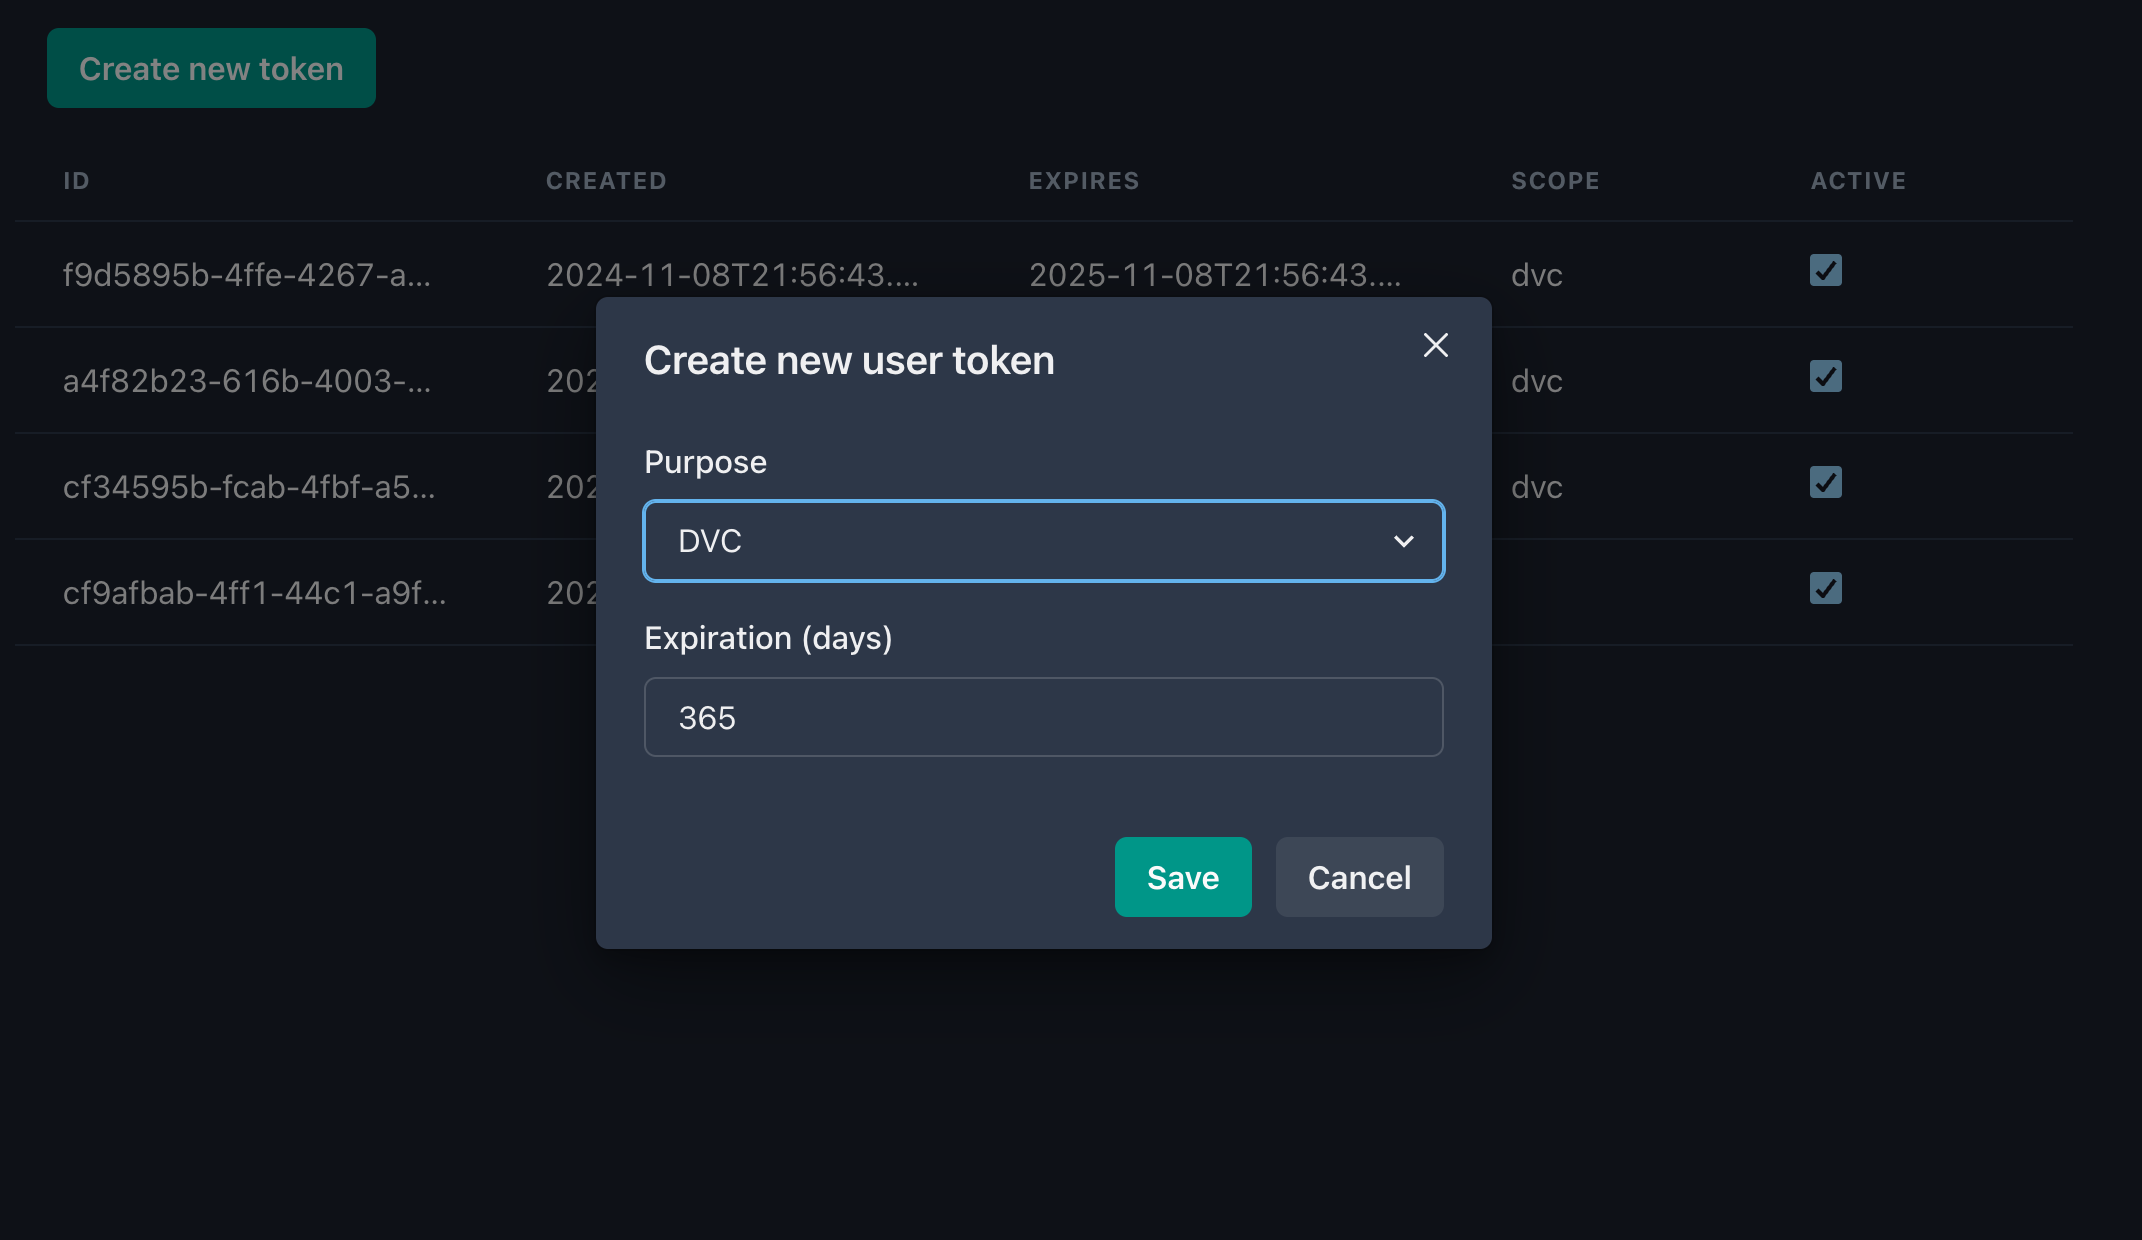
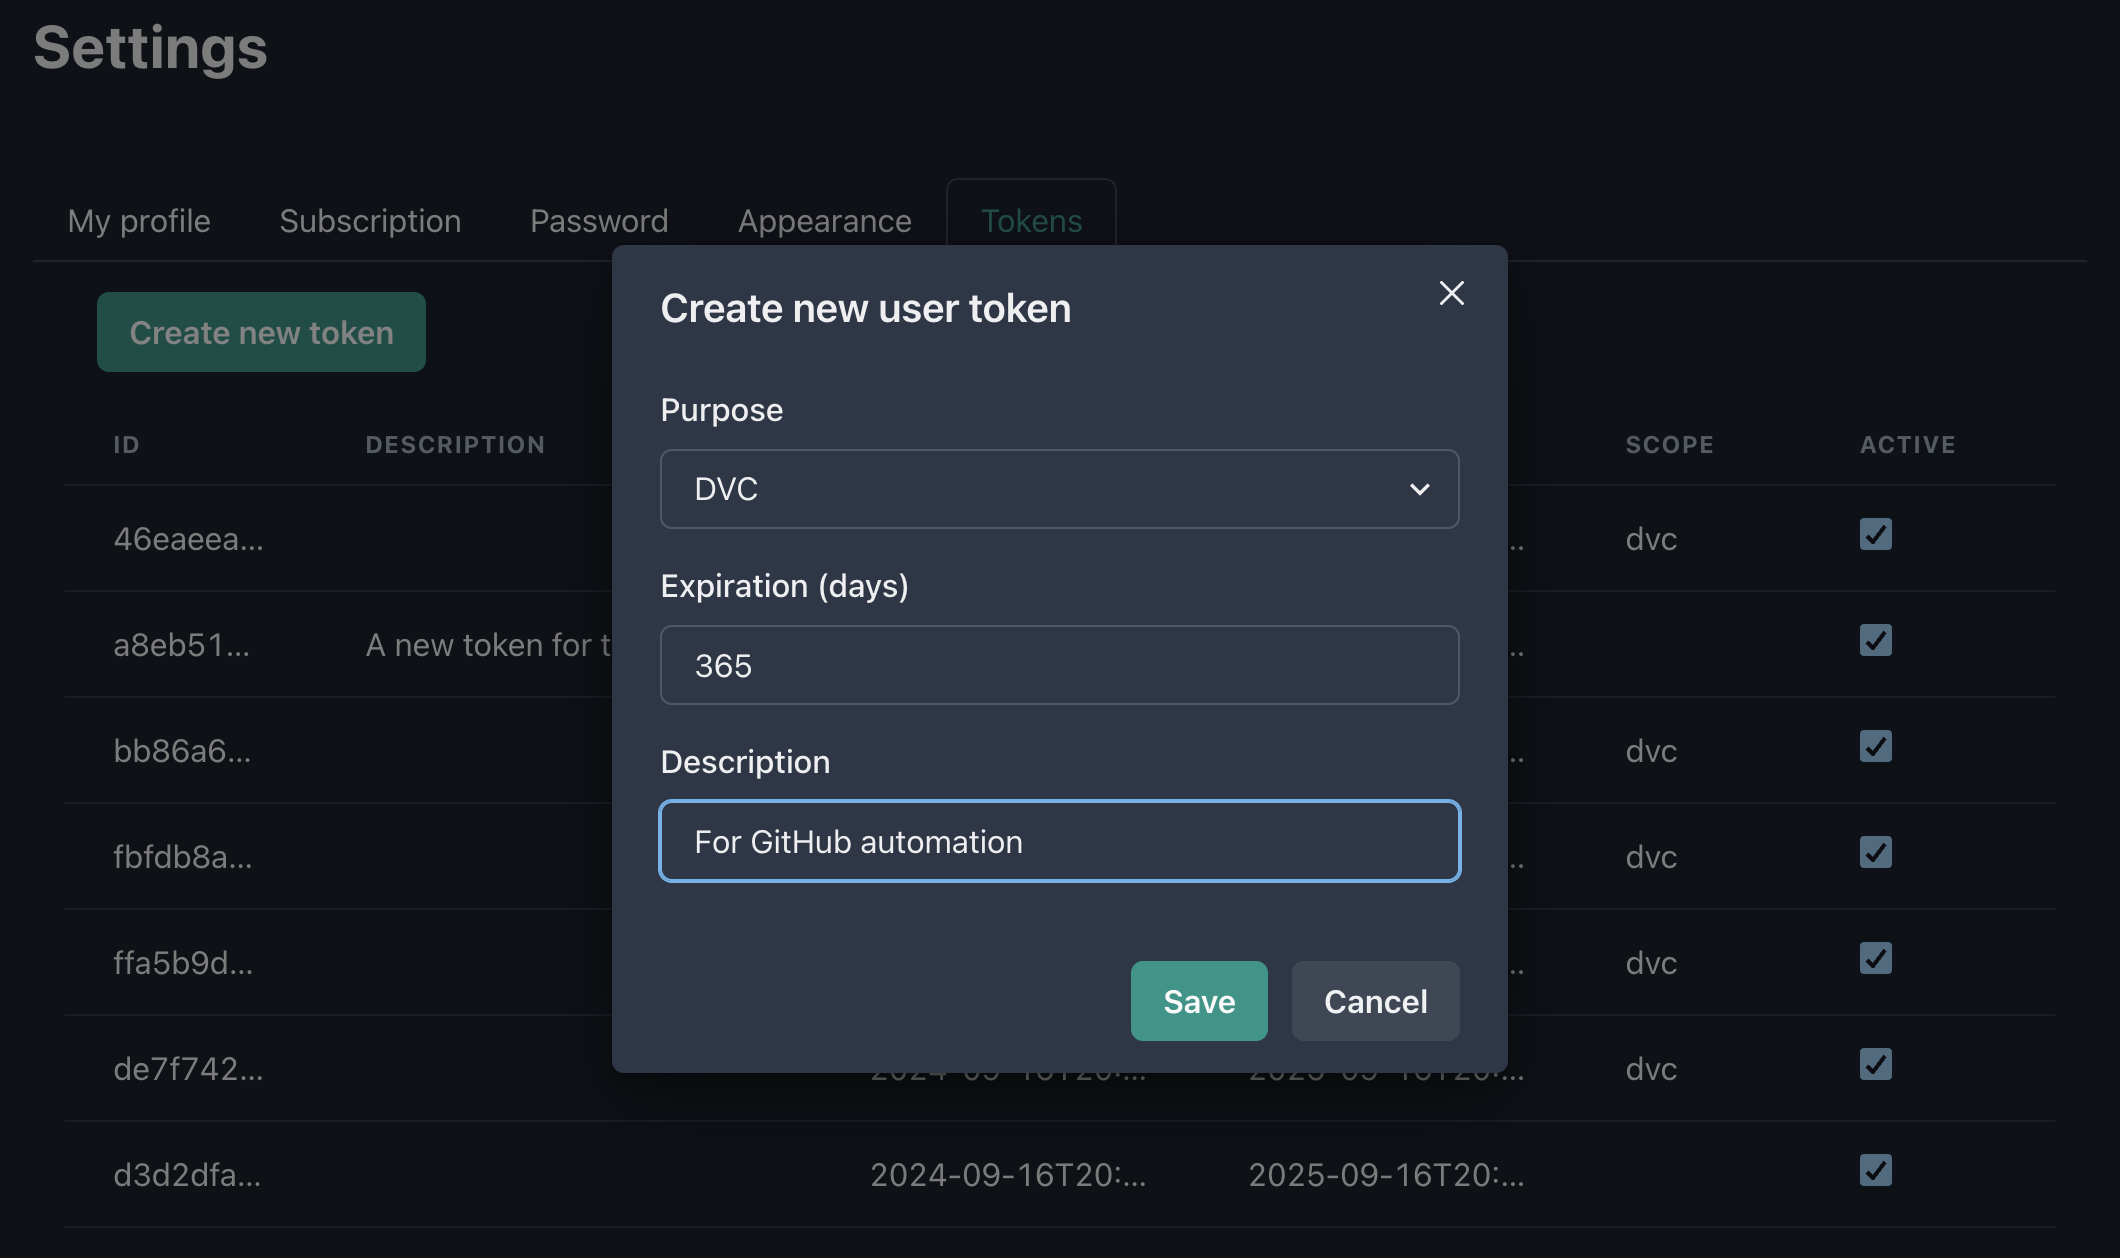
Add GitHub Actions tutorial

diff --git a/docs/tutorials/github-actions.md b/docs/tutorials/github-actions.md
@@ -1,0 +1,83 @@
+# Running Calkit in GitHub Actions
+
+A project can be set up to automatically run the pipeline every time a
+change is pushed, either to the main branch or on a pull request,
+using GitHub Actions.
+The latter allows for inspection of outputs before merging into main.
+
+To get started, generate a DVC token and set it in your GitHub Actions
+secrets as `CALKIT_DVC_TOKEN`,
+either at your account or project level.
+On calkit.io, there are shortcuts on the project page for managing both
+Calkit tokens and GitHub Actions secrets:
+
+![Project quick actions links](img/quick-actions.png)
+
+![DVC token](img/latex-codespaces/new-token.png)
+
+![Actions repo secrets](img/actions-repo-secrets.png)
+
+Next, add a workflow to the project in the `.github/workflows` folder.
+For example, we can put the content below into `.github/workflows/run.yml`:
+
+```yaml
+name: Run pipeline
+
+on:
+  push:
+    branches:
+      - main
+  pull_request:
+
+permissions:
+  contents: write
+
+# Make sure we only ever run one per branch so we don't have issues pushing
+# after running the pipeline
+concurrency:
+  group: calkit-run-${{ github.ref }}
+  cancel-in-progress: false
+
+jobs:
+  main:
+    name: Run
+    runs-on: ubuntu-latest
+    steps:
+      - uses: actions/checkout@v4
+        with:
+          # For PRs, checkout the head ref to avoid detached HEAD
+          ref: ${{ github.head_ref || github.ref_name }}
+          token: ${{ secrets.GITHUB_TOKEN }}
+      - name: Configure Git credentials
+        run: |
+          git config user.name github-actions[bot]
+          git config user.email 41898282+github-actions[bot]@users.noreply.github.com
+      - name: Setup uv
+        uses: astral-sh/setup-uv@v5
+      - name: Install Calkit
+        run: uv tool install calkit-python
+      - name: Run Calkit
+        uses: calkit/run-action@v1
+        with:
+          dvc_token: ${{ secrets.CALKIT_DVC_TOKEN }}
+```
+
+This particular example installs Calkit with uv,
+meaning `uv` and `uv-venv` environment types will work without any additional
+configuration.
+Docker is also installed by default on the `ubuntu-latest` machine.
+If other environment types are used in the project,
+setup steps may be necessary for those, e.g.,
+[`setup-miniconda`](https://github.com/marketplace/actions/setup-miniconda)
+or [`install-juliaup`](https://github.com/marketplace/actions/install-juliaup).
+
+By default, the Calkit GitHub Action will run the pipeline and save results.
+This is why the workflow needs write permissions and configures Git
+credentials to act as the GitHub Actions bot.
+The workflow also limits concurrency so multiple jobs don't attempt to push
+to the same branch at the same time.
+
+It's possible to configure the action to not save results, e.g., if you
+just want to check that the pipeline can run without errors.
+See the [documentation](https://github.com/marketplace/actions/run-calkit)
+for all available options.

diff --git a/docs/tutorials/index.md b/docs/tutorials/index.md
@@ -10,3 +10,4 @@
 - [Adding a new LaTeX-based publication with its own Docker build environment](adding-latex-pub-docker.md)
 - [A reproducible workflow using Microsoft Office (Word and Excel)](office.md)
 - [Using Calkit with MATLAB](matlab.md)
+- [Automation with GitHub Actions](github-actions.md)
